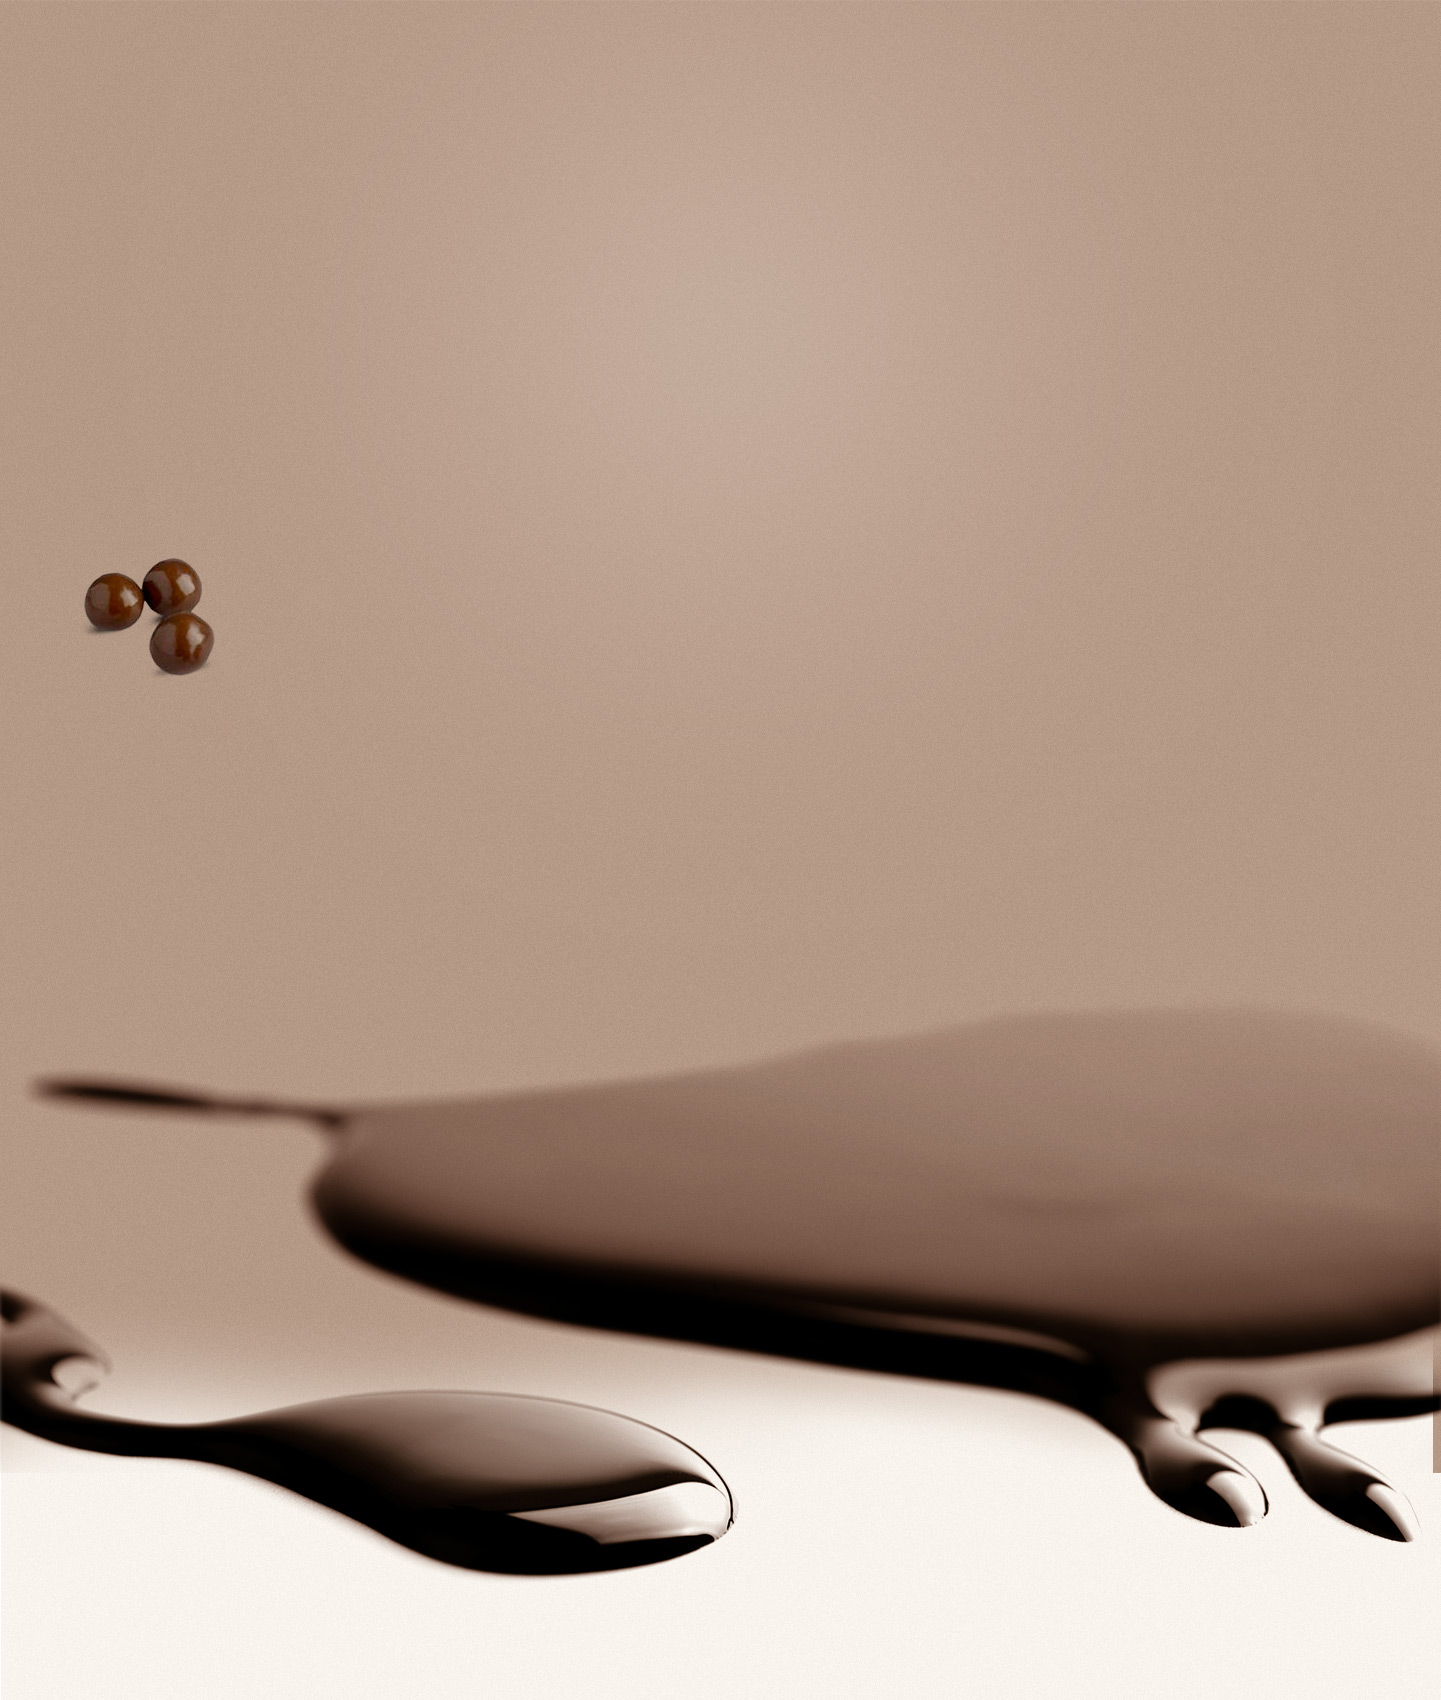
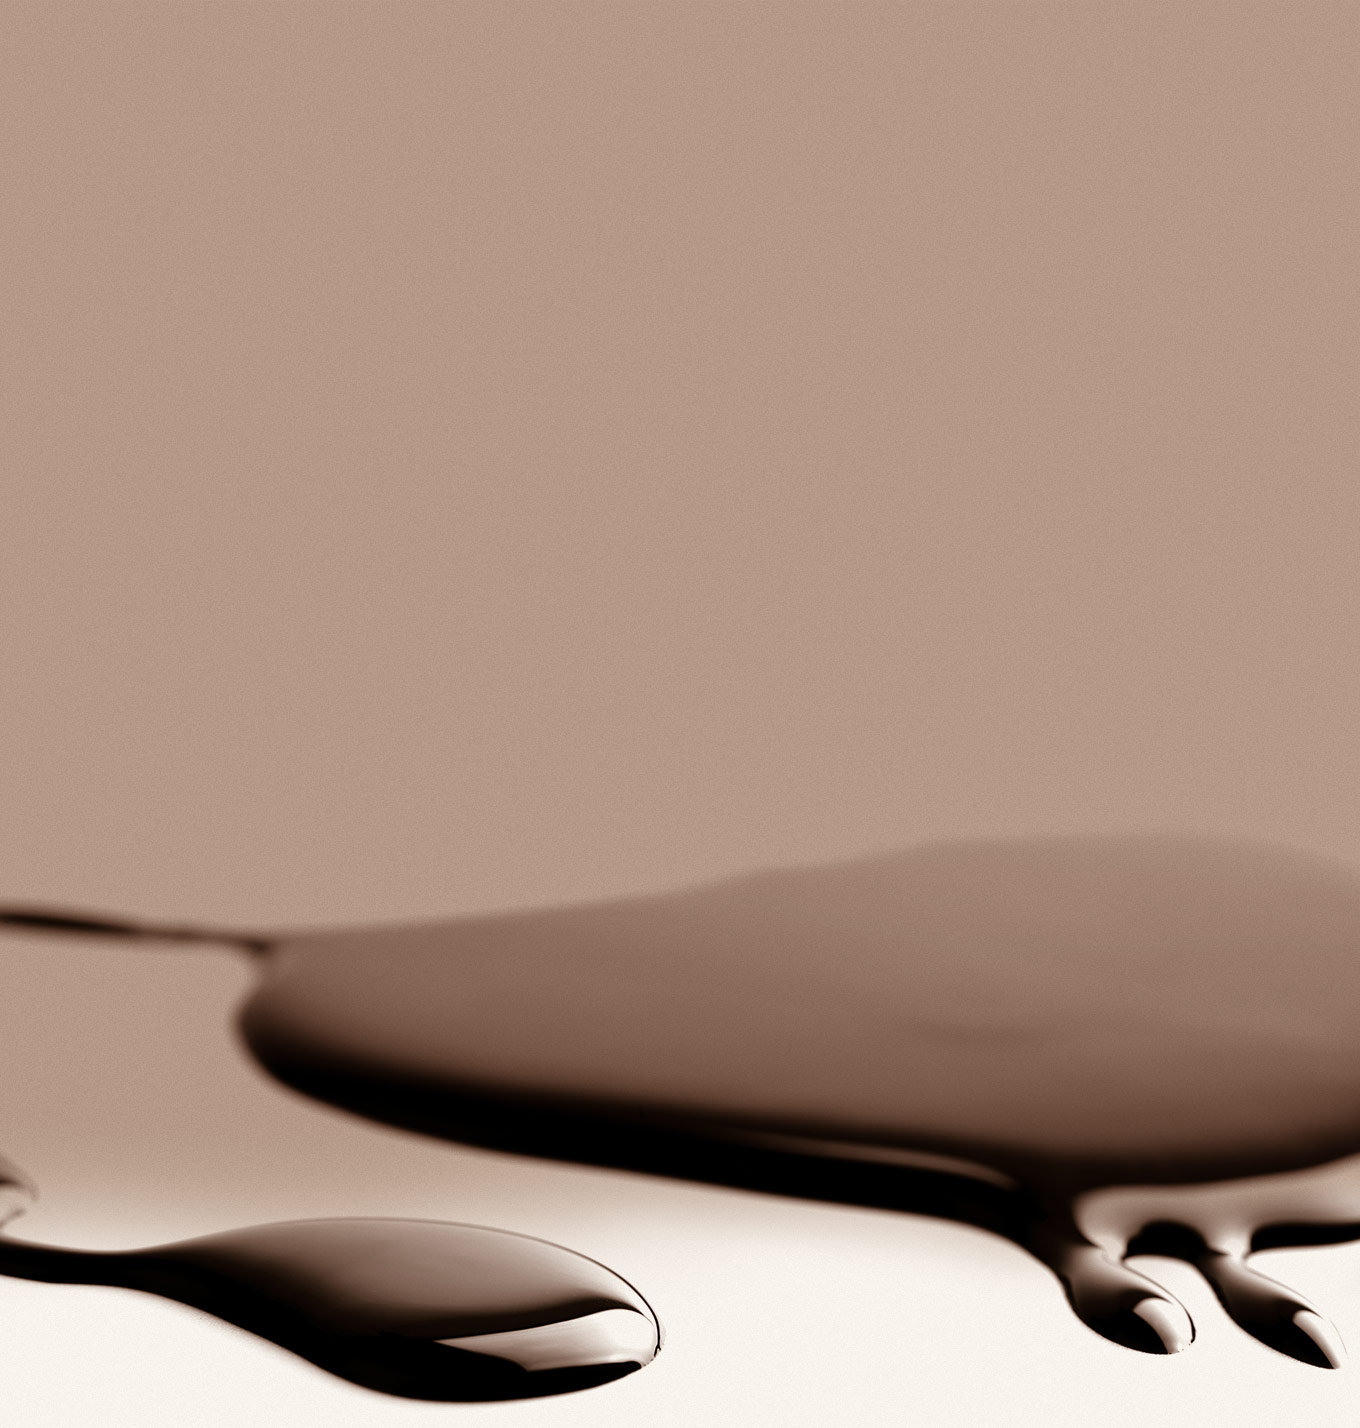
adjust img position

Changed region(s): [[0.0, 0.6162, 1.0, 0.986], [0.4324, 0.1541, 0.5868, 0.2465], [0.0618, 0.3081, 0.1544, 0.4006]]

diff --git a/app/assets/stylesheets/static_pages/_chocolate.css.scss b/app/assets/stylesheets/static_pages/_chocolate.css.scss
@@ -3,6 +3,7 @@
 #chocolate-page {
   background-color:#f9f4ed;
   background:asset_url('chocolate-bg-noise.gif', image);
+  overflow-x:hidden;
   #module-top, #module-bottom {
     position:relative;
     > img {
@@ -132,31 +133,44 @@
     > img {
       position:absolute;
     }
-    > p:nth-of-type(-n+2) {
-      @include grid-subheadline;
-      line-height:1.9;
-      width:600px;
-      margin-left:-320px;
-      padding-top:16px;
-      color:#f4eae5;
-      font-weight:200;
-      font-size:20px;
-      text-align:center;
-      position:relative;
-      left:50%;
-    }
-    //just the first one
-    > p:nth-of-type(1) {
-      padding-top:100px;
-    }
-    //just the second one
-    > p:nth-of-type(2) {
-      margin-bottom:100px;
+
+
+    #chocolate-message {
+      background: asset_url('chocolate-noise.gif', image);
+      position: relative;
+      z-index: 3;
+      > p:nth-of-type(-n+2) {
+        @include grid-subheadline;
+        line-height:1.9;
+        width:600px;
+        margin-left:-320px;
+        padding-top:16px;
+        color:#f4eae5;
+        font-weight:200;
+        font-size:20px;
+        text-align:center;
+        position:relative;
+        left:50%;
+      }
+      //just the first one
+      > p:nth-of-type(1) {
+        padding-top:100px;
+      }
+      //just the second one
+      > p:nth-of-type(2) {
+        margin-bottom:100px;
+      }
     }
     .chocolate-slider-a {
       width:90%;
       position:relative;
       margin:auto;
+      #choco-btm-bg {
+        position:absolute;
+        bottom:-260px;
+        width:112%;
+        margin-left:-6%;
+      }
       .choco-slider-nav-a {
         position:relative;
         text-align:center;
